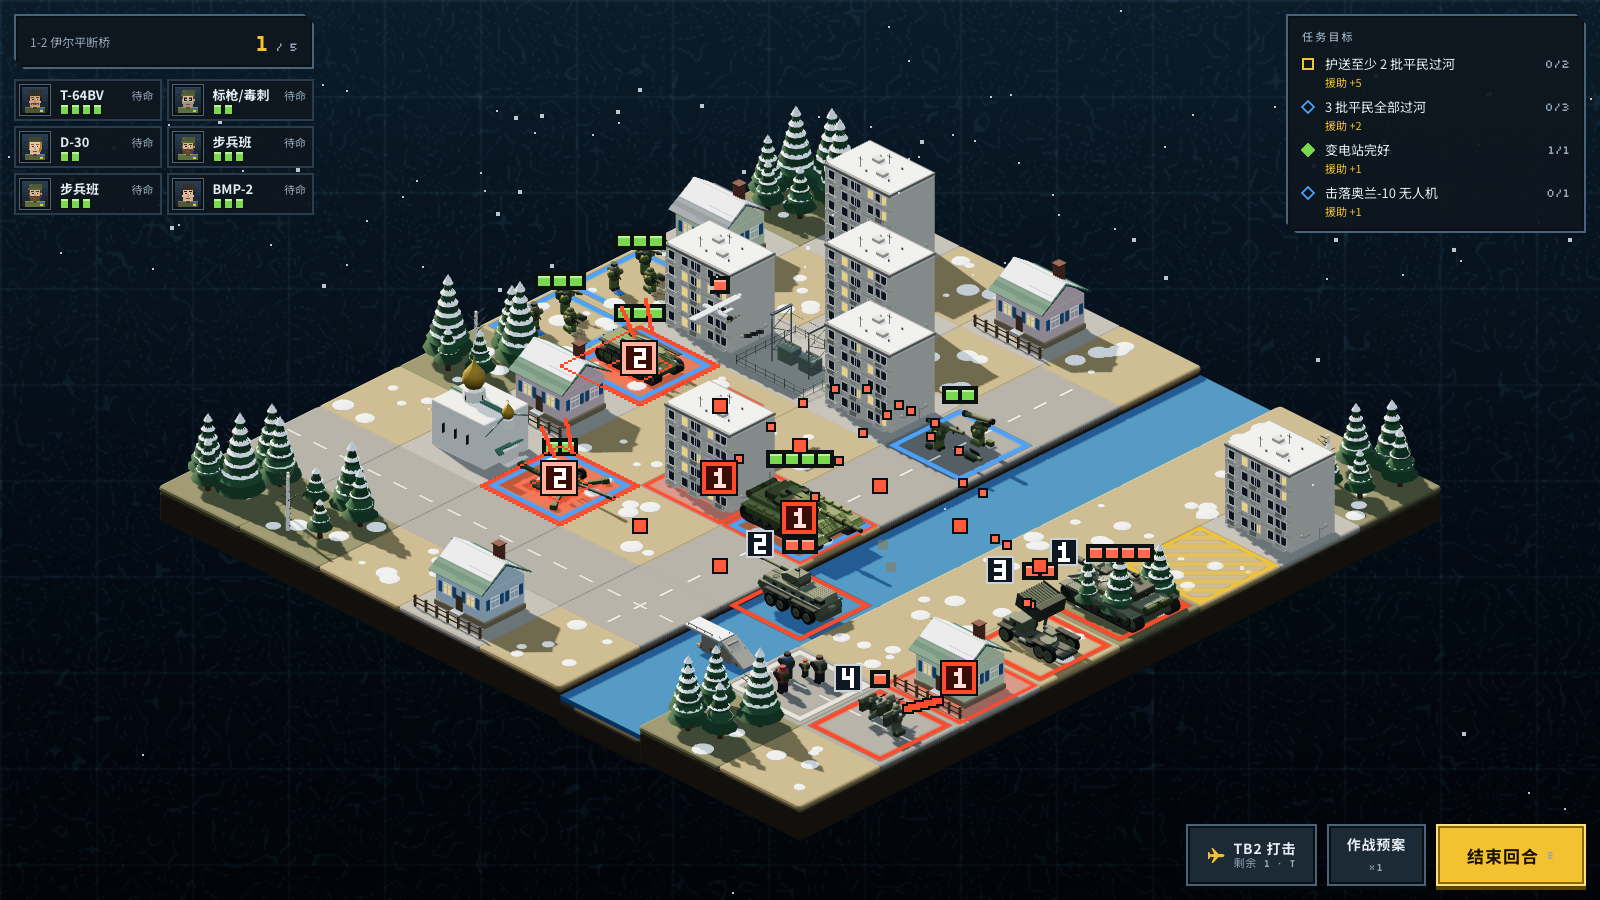
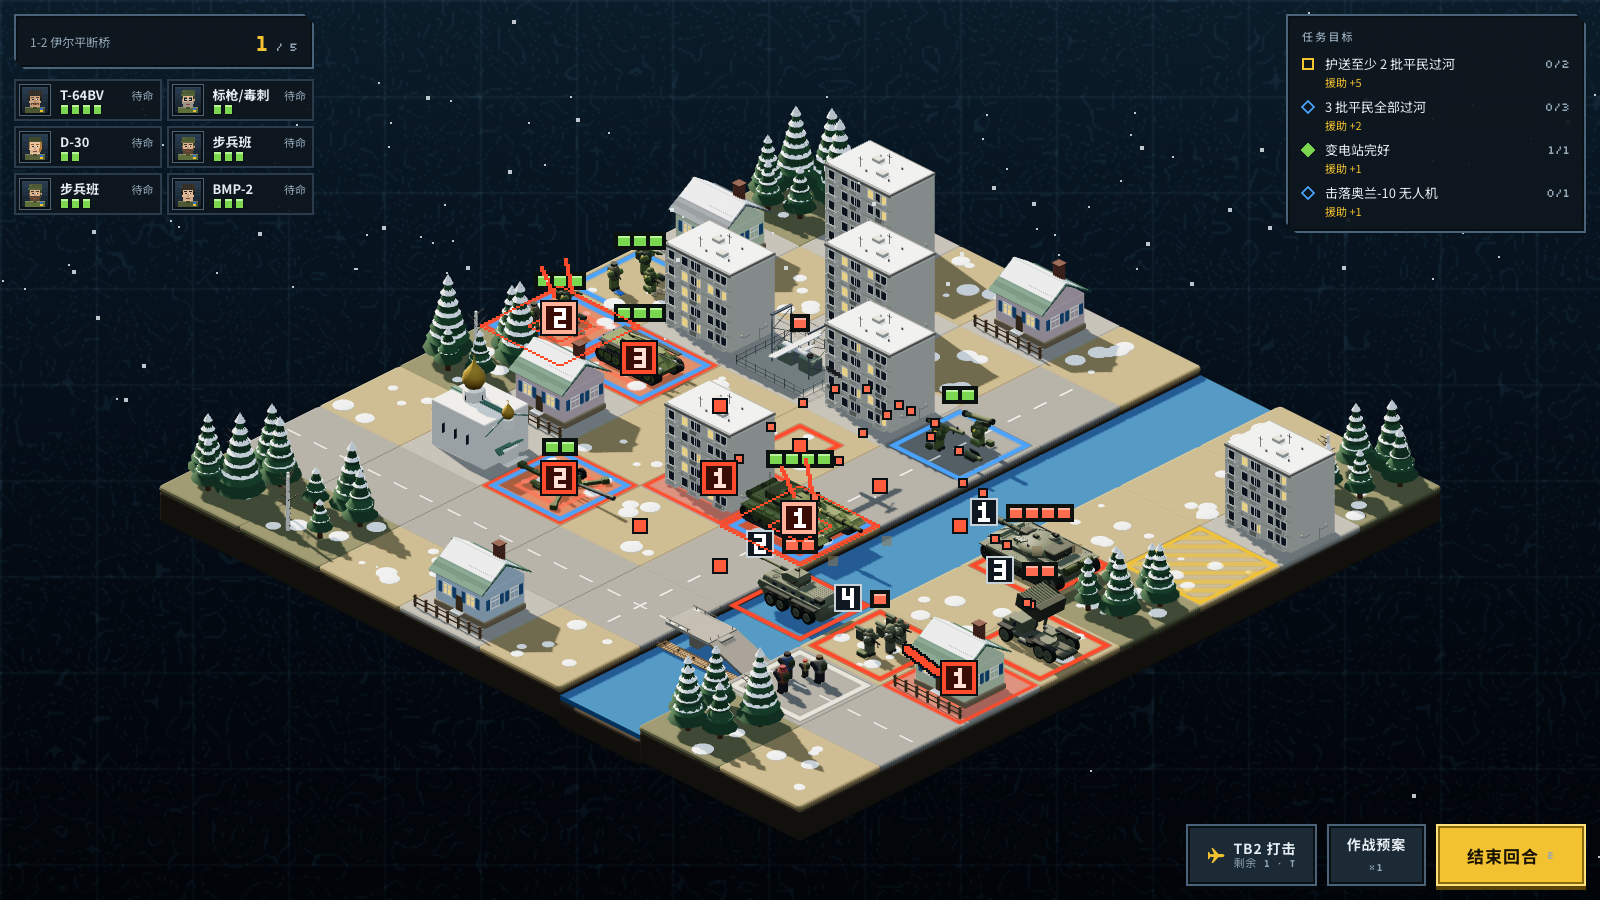
T-33: 第 2 轮修改（断桥横跨全格、灰色混凝土、便桥移到侧面清晰可见）

diff --git a/game/js/models3d.js b/game/js/models3d.js
@@ -1182,23 +1182,27 @@ function m3BridgeRuin() {
   const T = new THREE.Group();
   const CON1 = mat3('#9a958a', 0.85), CON2 = mat3('#7f7a70', 0.85), REB = mat3('#3a3530', 0.6, 0.4);
   const PLANK = mat3('#8a6a48', 0.9), SNOW = mat3('#eef2f4', 0.75);
-  // piers reaching out of the water
-  for (const px of [-2.5, 2.5]) part(T, rbox(1.7, 5.0, 2.5, 0.1, 1), CON2, px, -0.5, 0);
-  // two broken deck segments: one still on the piers, the other slanting into the water
-  part(T, rbox(8.6, 0.45, 3.7, 0.06, 1), CON1, -2.6, 2.15, 0);
-  const seg = part(T, rbox(6.4, 0.45, 3.7, 0.06, 1), CON1, 4.9, 0.6, 0); seg.rotation.z = -0.55;
-  part(T, rbox(8.7, 0.1, 3.74, 0.03, 1), SNOW, -2.6, 2.42, 0);
-  // railings left on the deck edge, rebar sticking out of the breaks
-  for (const [rx, ry2] of [[-6.2, 2.5], [-4.2, 2.5], [-2.2, 2.5], [-0.3, 2.5]]) part(T, rbox(0.12, 0.55, 0.12, 0.03, 1), CON2, rx, ry2 + 0.25, 1.7);
-  part(T, rbox(6.2, 0.1, 0.1, 0.03, 1), CON2, -3.1, 2.95, 1.7);
-  for (const [bx, by, bz] of [[1.35, 2.35, 1.2], [1.35, 2.35, -1.2], [1.6, 1.0, 1.4]]) part(T, cyl(0.05, 0.05, 1.3, 6), REB, bx, by, bz, 0.3, 0, 0.2);
-  for (const [bx, by, bz] of [[4.0, 1.35, 1.5], [4.3, 1.1, -1.4]]) part(T, cyl(0.05, 0.05, 1.5, 6), REB, bx, by, bz, 0, 0, 1.35);
-  // the plank footbridge under the broken bridge: planks on posts along +x with a handrail
-  for (let k = 0; k < 9; k++) part(T, rbox(1.15, 0.12, 1.7, 0.03, 1), PLANK, -4.5 + k * 1.15, -1.38, 0);
-  for (const px of [-3.9, -1.6, 0.7, 3.0, 4.9]) part(T, rbox(0.28, 1.05, 0.28, 0.04, 1), mat3('#6b5238', 0.9), px, -1.25, 0.72);
-  part(T, rbox(9.9, 0.09, 0.09, 0.03, 1), PLANK, 0.5, -0.62, 0.72);
-  for (const px of [-3.9, -1.6, 0.7, 3.0]) part(T, rbox(0.09, 0.7, 0.09, 0.03, 1), PLANK, px, -1.02, 0.72);
+  // piers from the riverbed
+  for (const px of [-5.2, 0.9]) part(T, rbox(2.0, 5.2, 3.0, 0.1, 1), CON2, px, -0.4, 0);
+  // deck segment A: horizontal, resting on the piers, reaching the -x road
+  part(T, rbox(10.8, 0.45, 7.0, 0.06, 1), CON1, -4.7, 2.0, 0);
+  part(T, rbox(10.9, 0.1, 7.04, 0.03, 1), CON2, -4.7, 2.26, 0);
+  for (const [sx, sz] of [[-8.9, 3.2], [-6.5, 3.2], [-9.0, -3.2]]) part(T, rbox(1.4, 0.06, 0.5, 0.03, 1), SNOW, sx, 2.32, sz);
+  // deck segment B: broken at mid-span, slanting down into the water at +x
+  const segB = part(T, rbox(9.6, 0.45, 7.0, 0.06, 1), CON2, 5.4, 0.4, 0); segB.rotation.z = -0.34;
+  part(segB, rbox(0.5, 0.1, 7.04, 0.03, 1), CON1, 4.55, 0.26, 0);
+  // jagged break edges and rebar on both stubs
+  for (const [bx, by, bz, brx] of [[0.42, 2.3, 2.6, 0.25], [0.42, 2.3, -2.6, -0.3], [0.5, 2.0, 0.8, 0.1]]) part(T, cyl(0.05, 0.05, 1.4, 6), REB, bx, by, bz, brx, 0, 0.2);
+  for (const [bx, by, bz, brz] of [[1.2, 1.9, 3.2, 1.35], [1.2, 1.6, -3.2, 1.2]]) part(T, cyl(0.05, 0.05, 1.5, 6), REB, bx, by, bz, 0, 0, brz);
+  // remaining railings on segment A
+  for (const [rx, rz] of [[-9.2, 3.3], [-7.0, 3.3], [-4.8, 3.3], [-9.2, -3.3], [-7.0, -3.3]]) part(T, rbox(0.14, 0.6, 0.14, 0.03, 1), CON2, rx, 2.55, rz);
+  part(T, rbox(6.0, 0.1, 0.1, 0.03, 1), CON2, -7.0, 2.95, 3.3);
+  part(T, rbox(6.0, 0.1, 0.1, 0.03, 1), CON2, -7.0, 2.95, -3.3);
+  // 4. plank footbridge at z +5, y about -1.3: crosswise planks, posts, one handrail
+  for (let k = 0; k < 31; k++) part(T, rbox(0.5, 0.12, 2.5, 0.02, 1), PLANK, -9.45 + k * 0.62, -1.3, 5.0);
+  for (const px of [-8.9, -5.4, -1.6, 2.2, 5.8, 9.0]) part(T, rbox(0.3, 1.05, 0.3, 0.04, 1), mat3('#6b5238', 0.9), px, -1.28, 5.0);
+  part(T, rbox(19.4, 0.08, 0.08, 0.03, 1), PLANK, 0.0, -0.62, 6.1);
+  for (const px of [-8.9, -5.4, -1.6, 2.2, 5.8]) part(T, rbox(0.09, 0.62, 0.09, 0.03, 1), PLANK, px, -0.98, 6.1);
   return T;
 }
-MODEL3D['bld:rubble'] = m3Rubble;
 MODEL3D['prop:bridge'] = m3BridgeRuin;

diff --git a/docs/tasks/T-33-精修废墟与断桥.md b/docs/tasks/T-33-精修废墟与断桥.md
@@ -73,6 +73,26 @@
 
 需审查方决定的问题：无。
 
+**第 2 轮（执行方：ZCode）**
+
+废墟未动（已通过）。断桥按第 1 轮审查意见重做：
+1. **尺寸**：桥面沿 +x 长约 20（x -10..10，两端接格子边缘的公路）、宽 7（z ±3.5）；墩高不变。
+2. **颜色**：混凝土 `#9a958a` / `#7f7a70`；桥面只留 3 小块积雪（segment A 上），整体灰色。
+3. **断口**：桥面在中段断开——A 段水平搭在两个桥墩上并延伸到 -x 路口；B 段从断口 (0.5, 2.0) 以 -0.34 rad 斜插进 +x 侧水中（末端 y ≈ -1.5 没入水面 -1.8 附近）；断口两端露出钢筋（竖直 + 倾斜细杆）+ 断缘小块参差。
+4. **木板便桥**：z = +5（桥面投影一侧），y ≈ -1.3；31 块横铺木板（每块 0.5 × 0.12 × 2.5、间隔 0.1）沿 +x 铺满整格（x -9.45..9.45）；下面 6 个木桩；-z 侧一根通长细木杆扶手 + 5 根立柱。未被桥面板遮挡——m1-turn1.png 水面处清楚可见。
+
+另：检视工具已更新（本分支已含 f815646），prop_bridge.png 直接在水面上显示，无需裁图。
+
+自测：
+- `node tools/check.js`：✓ 语法（19 个文件）；✓ 范围（仅 models3d.js）。
+- `node tools/playtest.js /tmp/pt-T-33r2`：`ERRORS none`，退出码 0。
+- `node tools/shot3d.js /tmp/s3-T-33r2`：`SHOT3D OK`，退出码 0；`model-shot` prop:bridge：`MODEL OK`。
+- `prop_bridge.png` 重拍：桥长 20.3 横跨整格、灰色混凝土、断口斜插水中；`m1-turn1.png` 重拍：断桥横跨河面、桥下便桥与扶手可见、未被遮挡。均逐张目检。
+
+需审查方决定的问题：无。
+
+## 审查意见（审查方写）
+
 ## 审查意见（审查方写）
 
 ## 审查意见（审查方写）
